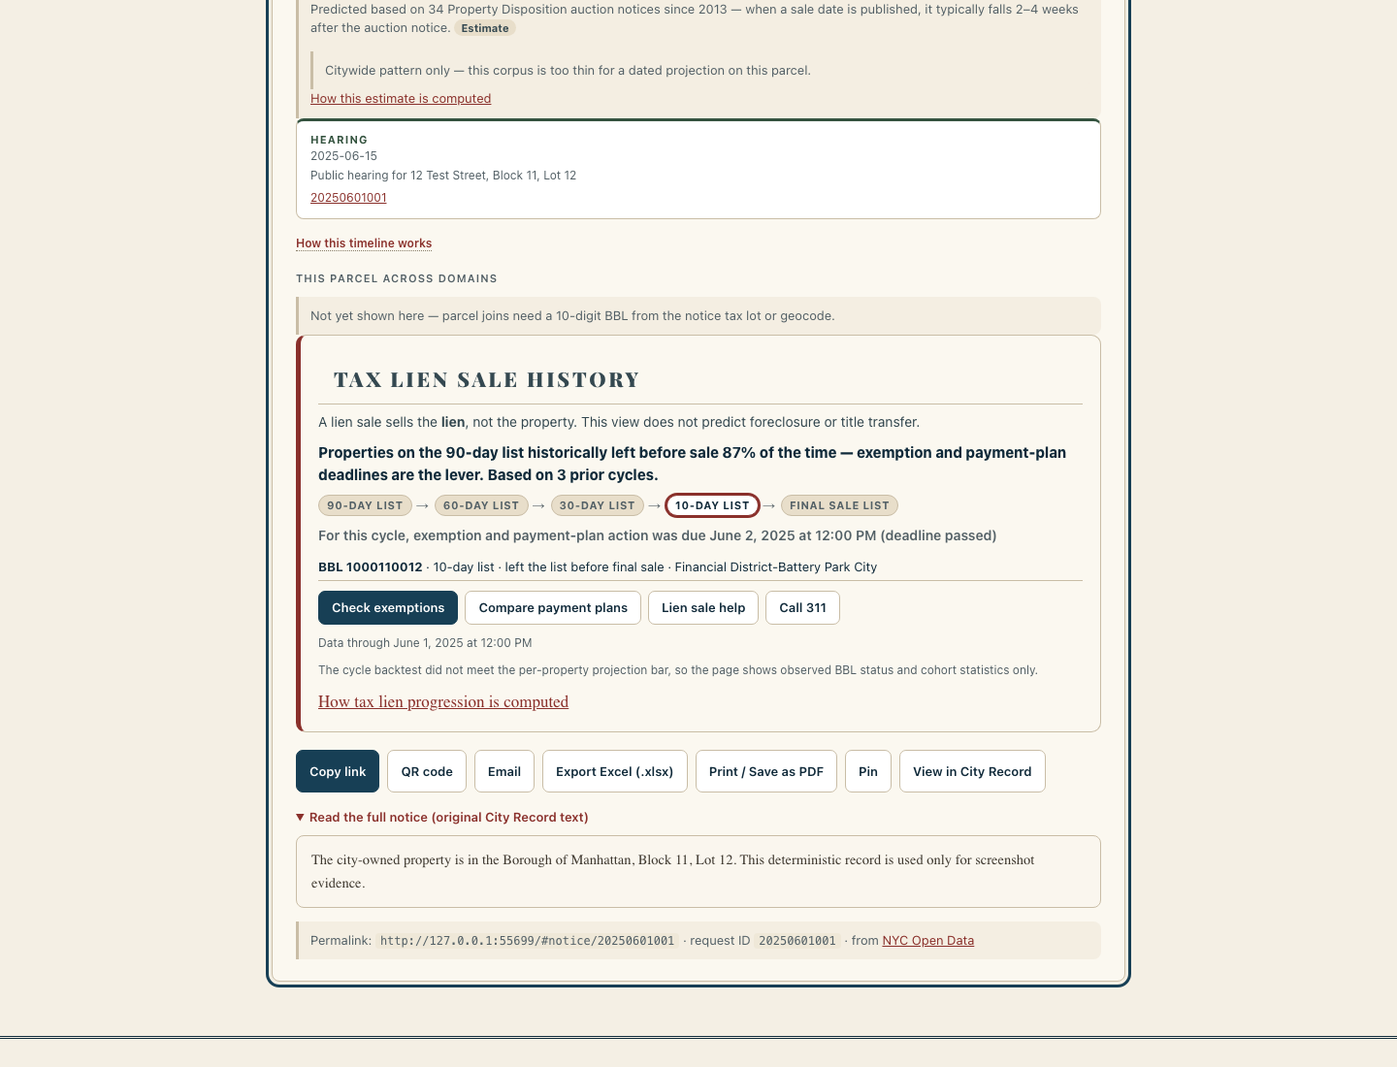
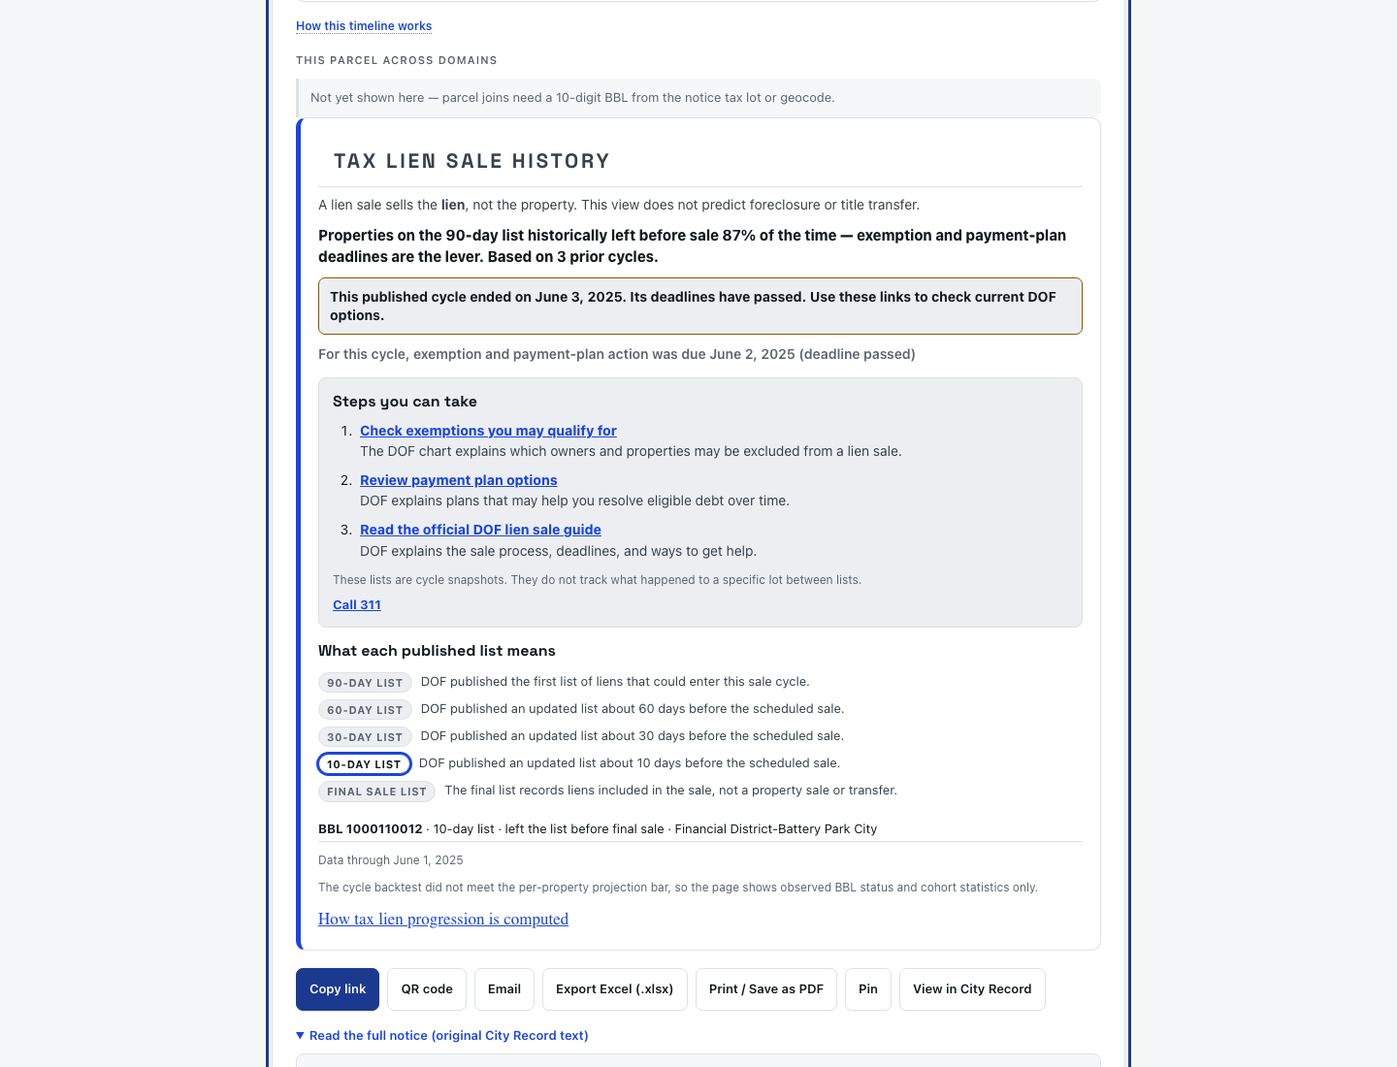
Present lien-sale cycle as a resident checklist (#472)

Changed region(s): [[0.1875, 0.0, 0.8125, 1.0]]

diff --git a/site/index.html b/site/index.html
@@ -667,9 +667,21 @@
   .tax-lien-deck,.tax-lien-lead,.tax-lien-meta{font:14px/1.5 ui-sans-serif,system-ui,sans-serif;margin:0 0 10px;color:var(--ink-soft)}
   .tax-lien-lead{font-weight:750;color:var(--ink);font-size:15px}
   .tax-lien-meta{font-size:12px;color:var(--muted)}
-  .tax-lien-actions{display:flex;flex-wrap:wrap;gap:7px;margin:10px 0}
-  .tax-lien-stepper{margin:10px 0;padding:0;display:flex;flex-wrap:wrap;gap:4px;list-style:none}
-  .tax-lien-stepper .lc-step{font-size:11px;padding:3px 8px}
+  .tax-lien-actions{margin:14px 0;padding:14px;background:var(--color-canvas-subtle);border:1px solid var(--rule);border-radius:8px}
+  .tax-lien-actions h3{font:750 16px/1.25 var(--font-display);margin:0 0 10px}
+  .tax-lien-actions ol{margin:0;padding-inline-start:24px;display:grid;gap:10px}
+  .tax-lien-actions li{padding-inline-start:4px;font:14px/1.4 ui-sans-serif,system-ui,sans-serif}
+  .tax-lien-actions li a{font-weight:750}
+  .tax-lien-actions li p{margin:2px 0 0;color:var(--ink-soft)}
+  .tax-lien-no-tracking{margin:12px 0 0;font:12px/1.45 ui-sans-serif,system-ui,sans-serif;color:var(--muted)}
+  .tax-lien-support{margin:7px 0 0;font:700 13px/1.4 ui-sans-serif,system-ui,sans-serif}
+  .tax-lien-stages{margin:14px 0}
+  .tax-lien-stages h3{font:750 16px/1.25 var(--font-display);margin:0 0 9px}
+  .tax-lien-stepper{margin:12px 0;padding:0;display:grid;gap:7px;list-style:none}
+  .tax-lien-stepper li{display:grid;grid-template-columns:minmax(92px,auto) minmax(0,1fr);gap:9px;align-items:start}
+  .tax-lien-stepper .lc-step{font-size:11px;padding:3px 8px;text-align:center}
+  .tax-lien-stage-meaning{font:13px/1.4 ui-sans-serif,system-ui,sans-serif;color:var(--ink-soft)}
+  .tax-lien-cycle-expired{margin:10px 0;padding:9px 11px;border:1px solid var(--amber);border-radius:7px;background:var(--paper-2);font:700 14px/1.4 ui-sans-serif,system-ui,sans-serif;color:var(--ink)}
   .tax-lien-lookup{display:grid;grid-template-columns:minmax(0,1fr) auto;gap:8px;align-items:end;margin:14px 0}
   .tax-lien-lookup label{grid-column:1/-1;font:700 11px/1 ui-sans-serif,system-ui,sans-serif;letter-spacing:.08em;text-transform:uppercase;color:var(--muted)}
   .tax-lien-result{grid-column:1/-1;min-width:0}

diff --git a/site/i18n/lang/fr.js b/site/i18n/lang/fr.js
@@ -1567,6 +1567,21 @@
     tax_lien_payment_plans: "Comparer les plans de paiement",
     tax_lien_help: "Aide sur les ventes de privilèges",
     tax_lien_call_311: "Appeler le 311",
+    tax_lien_checklist_heading:"Steps you can take",
+    tax_lien_stage_heading:"What each published list means",
+    tax_lien_checklist_exemptions:"Check exemptions you may qualify for",
+    tax_lien_checklist_exemptions_meaning:"The DOF chart explains which owners and properties may be excluded from a lien sale.",
+    tax_lien_checklist_payment_plans:"Review payment plan options",
+    tax_lien_checklist_payment_plans_meaning:"DOF explains plans that may help you resolve eligible debt over time.",
+    tax_lien_checklist_official_guide:"Read the official DOF lien sale guide",
+    tax_lien_checklist_official_guide_meaning:"DOF explains the sale process, deadlines, and ways to get help.",
+    tax_lien_cycle_expired_plain:"This published cycle ended on {date}. Its deadlines have passed. Use these links to check current DOF options.",
+    tax_lien_stage_90_meaning:"DOF published the first list of liens that could enter this sale cycle.",
+    tax_lien_stage_60_meaning:"DOF published an updated list about 60 days before the scheduled sale.",
+    tax_lien_stage_30_meaning:"DOF published an updated list about 30 days before the scheduled sale.",
+    tax_lien_stage_10_meaning:"DOF published an updated list about 10 days before the scheduled sale.",
+    tax_lien_stage_sold_meaning:"The final list records liens included in the sale, not a property sale or transfer.",
+    tax_lien_no_lot_tracking:"These lists are cycle snapshots. They do not track what happened to a specific lot between lists.",
     tax_lien_card_html: "Historique de la liste des privilèges jusqu'au {date} : {stage} · {outcome}.",
     tax_lien_formula_link: "Comment la progression des privilèges fiscaux est calculée",
     tax_lien_archive_note_html: "Référence d'archive — le contexte de cycle et les actions apparaissent sur les avis pour les parcelles figurant sur une liste publiée. Cette page n'est pas liée depuis la liste des biens.",

diff --git a/site/i18n/lang/es.js b/site/i18n/lang/es.js
@@ -1486,6 +1486,21 @@
     tax_lien_payment_plans: "Comparar planes de pago",
     tax_lien_help: "Ayuda sobre venta de gravámenes",
     tax_lien_call_311: "Llamar al 311",
+    tax_lien_checklist_heading:"Steps you can take",
+    tax_lien_stage_heading:"What each published list means",
+    tax_lien_checklist_exemptions:"Check exemptions you may qualify for",
+    tax_lien_checklist_exemptions_meaning:"The DOF chart explains which owners and properties may be excluded from a lien sale.",
+    tax_lien_checklist_payment_plans:"Review payment plan options",
+    tax_lien_checklist_payment_plans_meaning:"DOF explains plans that may help you resolve eligible debt over time.",
+    tax_lien_checklist_official_guide:"Read the official DOF lien sale guide",
+    tax_lien_checklist_official_guide_meaning:"DOF explains the sale process, deadlines, and ways to get help.",
+    tax_lien_cycle_expired_plain:"This published cycle ended on {date}. Its deadlines have passed. Use these links to check current DOF options.",
+    tax_lien_stage_90_meaning:"DOF published the first list of liens that could enter this sale cycle.",
+    tax_lien_stage_60_meaning:"DOF published an updated list about 60 days before the scheduled sale.",
+    tax_lien_stage_30_meaning:"DOF published an updated list about 30 days before the scheduled sale.",
+    tax_lien_stage_10_meaning:"DOF published an updated list about 10 days before the scheduled sale.",
+    tax_lien_stage_sold_meaning:"The final list records liens included in the sale, not a property sale or transfer.",
+    tax_lien_no_lot_tracking:"These lists are cycle snapshots. They do not track what happened to a specific lot between lists.",
     tax_lien_card_html: "Historial de la lista de gravámenes hasta {date}: {stage} · {outcome}.",
     tax_lien_formula_link: "Cómo se calcula la progresión de gravámenes fiscales",
     tax_lien_archive_note_html: "Referencia de archivo: el contexto del ciclo y las acciones aparecen en los avisos de parcelas en una lista publicada. Esta página no está enlazada desde la lista de propiedades.",

diff --git a/site/i18n/lang/ar.js b/site/i18n/lang/ar.js
@@ -1492,6 +1492,21 @@
     tax_lien_payment_plans:"Compare payment plans",
     tax_lien_help:"Lien sale help",
     tax_lien_call_311:"Call 311",
+    tax_lien_checklist_heading:"Steps you can take",
+    tax_lien_stage_heading:"What each published list means",
+    tax_lien_checklist_exemptions:"Check exemptions you may qualify for",
+    tax_lien_checklist_exemptions_meaning:"The DOF chart explains which owners and properties may be excluded from a lien sale.",
+    tax_lien_checklist_payment_plans:"Review payment plan options",
+    tax_lien_checklist_payment_plans_meaning:"DOF explains plans that may help you resolve eligible debt over time.",
+    tax_lien_checklist_official_guide:"Read the official DOF lien sale guide",
+    tax_lien_checklist_official_guide_meaning:"DOF explains the sale process, deadlines, and ways to get help.",
+    tax_lien_cycle_expired_plain:"This published cycle ended on {date}. Its deadlines have passed. Use these links to check current DOF options.",
+    tax_lien_stage_90_meaning:"DOF published the first list of liens that could enter this sale cycle.",
+    tax_lien_stage_60_meaning:"DOF published an updated list about 60 days before the scheduled sale.",
+    tax_lien_stage_30_meaning:"DOF published an updated list about 30 days before the scheduled sale.",
+    tax_lien_stage_10_meaning:"DOF published an updated list about 10 days before the scheduled sale.",
+    tax_lien_stage_sold_meaning:"The final list records liens included in the sale, not a property sale or transfer.",
+    tax_lien_no_lot_tracking:"These lists are cycle snapshots. They do not track what happened to a specific lot between lists.",
     tax_lien_card_html:"Tax-lien list history through {date}: {stage} · {outcome}.",
     tax_lien_formula_link:"How tax lien progression is computed",
     tax_lien_archive_note_html:"Archive reference — cycle context and actions appear on notices for parcels on a published list. This page is not linked from the property list.",

diff --git a/site/i18n/lang/bn.js b/site/i18n/lang/bn.js
@@ -1485,6 +1485,21 @@
     tax_lien_payment_plans:"Compare payment plans",
     tax_lien_help:"Lien sale help",
     tax_lien_call_311:"Call 311",
+    tax_lien_checklist_heading:"Steps you can take",
+    tax_lien_stage_heading:"What each published list means",
+    tax_lien_checklist_exemptions:"Check exemptions you may qualify for",
+    tax_lien_checklist_exemptions_meaning:"The DOF chart explains which owners and properties may be excluded from a lien sale.",
+    tax_lien_checklist_payment_plans:"Review payment plan options",
+    tax_lien_checklist_payment_plans_meaning:"DOF explains plans that may help you resolve eligible debt over time.",
+    tax_lien_checklist_official_guide:"Read the official DOF lien sale guide",
+    tax_lien_checklist_official_guide_meaning:"DOF explains the sale process, deadlines, and ways to get help.",
+    tax_lien_cycle_expired_plain:"This published cycle ended on {date}. Its deadlines have passed. Use these links to check current DOF options.",
+    tax_lien_stage_90_meaning:"DOF published the first list of liens that could enter this sale cycle.",
+    tax_lien_stage_60_meaning:"DOF published an updated list about 60 days before the scheduled sale.",
+    tax_lien_stage_30_meaning:"DOF published an updated list about 30 days before the scheduled sale.",
+    tax_lien_stage_10_meaning:"DOF published an updated list about 10 days before the scheduled sale.",
+    tax_lien_stage_sold_meaning:"The final list records liens included in the sale, not a property sale or transfer.",
+    tax_lien_no_lot_tracking:"These lists are cycle snapshots. They do not track what happened to a specific lot between lists.",
     tax_lien_card_html:"Tax-lien list history through {date}: {stage} · {outcome}.",
     tax_lien_formula_link:"How tax lien progression is computed",
     tax_lien_archive_note_html:"Archive reference — cycle context and actions appear on notices for parcels on a published list. This page is not linked from the property list.",

diff --git a/site/i18n/lang/ht.js b/site/i18n/lang/ht.js
@@ -1484,6 +1484,21 @@
     tax_lien_payment_plans:"Compare payment plans",
     tax_lien_help:"Lien sale help",
     tax_lien_call_311:"Call 311",
+    tax_lien_checklist_heading:"Steps you can take",
+    tax_lien_stage_heading:"What each published list means",
+    tax_lien_checklist_exemptions:"Check exemptions you may qualify for",
+    tax_lien_checklist_exemptions_meaning:"The DOF chart explains which owners and properties may be excluded from a lien sale.",
+    tax_lien_checklist_payment_plans:"Review payment plan options",
+    tax_lien_checklist_payment_plans_meaning:"DOF explains plans that may help you resolve eligible debt over time.",
+    tax_lien_checklist_official_guide:"Read the official DOF lien sale guide",
+    tax_lien_checklist_official_guide_meaning:"DOF explains the sale process, deadlines, and ways to get help.",
+    tax_lien_cycle_expired_plain:"This published cycle ended on {date}. Its deadlines have passed. Use these links to check current DOF options.",
+    tax_lien_stage_90_meaning:"DOF published the first list of liens that could enter this sale cycle.",
+    tax_lien_stage_60_meaning:"DOF published an updated list about 60 days before the scheduled sale.",
+    tax_lien_stage_30_meaning:"DOF published an updated list about 30 days before the scheduled sale.",
+    tax_lien_stage_10_meaning:"DOF published an updated list about 10 days before the scheduled sale.",
+    tax_lien_stage_sold_meaning:"The final list records liens included in the sale, not a property sale or transfer.",
+    tax_lien_no_lot_tracking:"These lists are cycle snapshots. They do not track what happened to a specific lot between lists.",
     tax_lien_card_html:"Tax-lien list history through {date}: {stage} · {outcome}.",
     tax_lien_formula_link:"How tax lien progression is computed",
     tax_lien_archive_note_html:"Archive reference — cycle context and actions appear on notices for parcels on a published list. This page is not linked from the property list.",

diff --git a/site/i18n/lang/ko.js b/site/i18n/lang/ko.js
@@ -1485,6 +1485,21 @@
     tax_lien_payment_plans:"Compare payment plans",
     tax_lien_help:"Lien sale help",
     tax_lien_call_311:"Call 311",
+    tax_lien_checklist_heading:"Steps you can take",
+    tax_lien_stage_heading:"What each published list means",
+    tax_lien_checklist_exemptions:"Check exemptions you may qualify for",
+    tax_lien_checklist_exemptions_meaning:"The DOF chart explains which owners and properties may be excluded from a lien sale.",
+    tax_lien_checklist_payment_plans:"Review payment plan options",
+    tax_lien_checklist_payment_plans_meaning:"DOF explains plans that may help you resolve eligible debt over time.",
+    tax_lien_checklist_official_guide:"Read the official DOF lien sale guide",
+    tax_lien_checklist_official_guide_meaning:"DOF explains the sale process, deadlines, and ways to get help.",
+    tax_lien_cycle_expired_plain:"This published cycle ended on {date}. Its deadlines have passed. Use these links to check current DOF options.",
+    tax_lien_stage_90_meaning:"DOF published the first list of liens that could enter this sale cycle.",
+    tax_lien_stage_60_meaning:"DOF published an updated list about 60 days before the scheduled sale.",
+    tax_lien_stage_30_meaning:"DOF published an updated list about 30 days before the scheduled sale.",
+    tax_lien_stage_10_meaning:"DOF published an updated list about 10 days before the scheduled sale.",
+    tax_lien_stage_sold_meaning:"The final list records liens included in the sale, not a property sale or transfer.",
+    tax_lien_no_lot_tracking:"These lists are cycle snapshots. They do not track what happened to a specific lot between lists.",
     tax_lien_card_html:"Tax-lien list history through {date}: {stage} · {outcome}.",
     tax_lien_formula_link:"How tax lien progression is computed",
     tax_lien_archive_note_html:"Archive reference — cycle context and actions appear on notices for parcels on a published list. This page is not linked from the property list.",

diff --git a/site/i18n/lang/pl.js b/site/i18n/lang/pl.js
@@ -1503,6 +1503,21 @@
     tax_lien_payment_plans:"Compare payment plans",
     tax_lien_help:"Lien sale help",
     tax_lien_call_311:"Call 311",
+    tax_lien_checklist_heading:"Steps you can take",
+    tax_lien_stage_heading:"What each published list means",
+    tax_lien_checklist_exemptions:"Check exemptions you may qualify for",
+    tax_lien_checklist_exemptions_meaning:"The DOF chart explains which owners and properties may be excluded from a lien sale.",
+    tax_lien_checklist_payment_plans:"Review payment plan options",
+    tax_lien_checklist_payment_plans_meaning:"DOF explains plans that may help you resolve eligible debt over time.",
+    tax_lien_checklist_official_guide:"Read the official DOF lien sale guide",
+    tax_lien_checklist_official_guide_meaning:"DOF explains the sale process, deadlines, and ways to get help.",
+    tax_lien_cycle_expired_plain:"This published cycle ended on {date}. Its deadlines have passed. Use these links to check current DOF options.",
+    tax_lien_stage_90_meaning:"DOF published the first list of liens that could enter this sale cycle.",
+    tax_lien_stage_60_meaning:"DOF published an updated list about 60 days before the scheduled sale.",
+    tax_lien_stage_30_meaning:"DOF published an updated list about 30 days before the scheduled sale.",
+    tax_lien_stage_10_meaning:"DOF published an updated list about 10 days before the scheduled sale.",
+    tax_lien_stage_sold_meaning:"The final list records liens included in the sale, not a property sale or transfer.",
+    tax_lien_no_lot_tracking:"These lists are cycle snapshots. They do not track what happened to a specific lot between lists.",
     tax_lien_card_html:"Tax-lien list history through {date}: {stage} · {outcome}.",
     tax_lien_formula_link:"How tax lien progression is computed",
     tax_lien_archive_note_html:"Archive reference — cycle context and actions appear on notices for parcels on a published list. This page is not linked from the property list.",

diff --git a/site/i18n/lang/ru.js b/site/i18n/lang/ru.js
@@ -1495,6 +1495,21 @@
     tax_lien_payment_plans:"Compare payment plans",
     tax_lien_help:"Lien sale help",
     tax_lien_call_311:"Call 311",
+    tax_lien_checklist_heading:"Steps you can take",
+    tax_lien_stage_heading:"What each published list means",
+    tax_lien_checklist_exemptions:"Check exemptions you may qualify for",
+    tax_lien_checklist_exemptions_meaning:"The DOF chart explains which owners and properties may be excluded from a lien sale.",
+    tax_lien_checklist_payment_plans:"Review payment plan options",
+    tax_lien_checklist_payment_plans_meaning:"DOF explains plans that may help you resolve eligible debt over time.",
+    tax_lien_checklist_official_guide:"Read the official DOF lien sale guide",
+    tax_lien_checklist_official_guide_meaning:"DOF explains the sale process, deadlines, and ways to get help.",
+    tax_lien_cycle_expired_plain:"This published cycle ended on {date}. Its deadlines have passed. Use these links to check current DOF options.",
+    tax_lien_stage_90_meaning:"DOF published the first list of liens that could enter this sale cycle.",
+    tax_lien_stage_60_meaning:"DOF published an updated list about 60 days before the scheduled sale.",
+    tax_lien_stage_30_meaning:"DOF published an updated list about 30 days before the scheduled sale.",
+    tax_lien_stage_10_meaning:"DOF published an updated list about 10 days before the scheduled sale.",
+    tax_lien_stage_sold_meaning:"The final list records liens included in the sale, not a property sale or transfer.",
+    tax_lien_no_lot_tracking:"These lists are cycle snapshots. They do not track what happened to a specific lot between lists.",
     tax_lien_card_html:"Tax-lien list history through {date}: {stage} · {outcome}.",
     tax_lien_formula_link:"How tax lien progression is computed",
     tax_lien_archive_note_html:"Archive reference — cycle context and actions appear on notices for parcels on a published list. This page is not linked from the property list.",

diff --git a/site/i18n/lang/ur.js b/site/i18n/lang/ur.js
@@ -1492,6 +1492,21 @@
     tax_lien_payment_plans:"Compare payment plans",
     tax_lien_help:"Lien sale help",
     tax_lien_call_311:"Call 311",
+    tax_lien_checklist_heading:"Steps you can take",
+    tax_lien_stage_heading:"What each published list means",
+    tax_lien_checklist_exemptions:"Check exemptions you may qualify for",
+    tax_lien_checklist_exemptions_meaning:"The DOF chart explains which owners and properties may be excluded from a lien sale.",
+    tax_lien_checklist_payment_plans:"Review payment plan options",
+    tax_lien_checklist_payment_plans_meaning:"DOF explains plans that may help you resolve eligible debt over time.",
+    tax_lien_checklist_official_guide:"Read the official DOF lien sale guide",
+    tax_lien_checklist_official_guide_meaning:"DOF explains the sale process, deadlines, and ways to get help.",
+    tax_lien_cycle_expired_plain:"This published cycle ended on {date}. Its deadlines have passed. Use these links to check current DOF options.",
+    tax_lien_stage_90_meaning:"DOF published the first list of liens that could enter this sale cycle.",
+    tax_lien_stage_60_meaning:"DOF published an updated list about 60 days before the scheduled sale.",
+    tax_lien_stage_30_meaning:"DOF published an updated list about 30 days before the scheduled sale.",
+    tax_lien_stage_10_meaning:"DOF published an updated list about 10 days before the scheduled sale.",
+    tax_lien_stage_sold_meaning:"The final list records liens included in the sale, not a property sale or transfer.",
+    tax_lien_no_lot_tracking:"These lists are cycle snapshots. They do not track what happened to a specific lot between lists.",
     tax_lien_card_html:"Tax-lien list history through {date}: {stage} · {outcome}.",
     tax_lien_formula_link:"How tax lien progression is computed",
     tax_lien_archive_note_html:"Archive reference — cycle context and actions appear on notices for parcels on a published list. This page is not linked from the property list.",

diff --git a/site/i18n/lang/zh-Hans.js b/site/i18n/lang/zh-Hans.js
@@ -1485,6 +1485,21 @@
     tax_lien_payment_plans:"Compare payment plans",
     tax_lien_help:"Lien sale help",
     tax_lien_call_311:"Call 311",
+    tax_lien_checklist_heading:"Steps you can take",
+    tax_lien_stage_heading:"What each published list means",
+    tax_lien_checklist_exemptions:"Check exemptions you may qualify for",
+    tax_lien_checklist_exemptions_meaning:"The DOF chart explains which owners and properties may be excluded from a lien sale.",
+    tax_lien_checklist_payment_plans:"Review payment plan options",
+    tax_lien_checklist_payment_plans_meaning:"DOF explains plans that may help you resolve eligible debt over time.",
+    tax_lien_checklist_official_guide:"Read the official DOF lien sale guide",
+    tax_lien_checklist_official_guide_meaning:"DOF explains the sale process, deadlines, and ways to get help.",
+    tax_lien_cycle_expired_plain:"This published cycle ended on {date}. Its deadlines have passed. Use these links to check current DOF options.",
+    tax_lien_stage_90_meaning:"DOF published the first list of liens that could enter this sale cycle.",
+    tax_lien_stage_60_meaning:"DOF published an updated list about 60 days before the scheduled sale.",
+    tax_lien_stage_30_meaning:"DOF published an updated list about 30 days before the scheduled sale.",
+    tax_lien_stage_10_meaning:"DOF published an updated list about 10 days before the scheduled sale.",
+    tax_lien_stage_sold_meaning:"The final list records liens included in the sale, not a property sale or transfer.",
+    tax_lien_no_lot_tracking:"These lists are cycle snapshots. They do not track what happened to a specific lot between lists.",
     tax_lien_card_html:"Tax-lien list history through {date}: {stage} · {outcome}.",
     tax_lien_formula_link:"How tax lien progression is computed",
     tax_lien_archive_note_html:"Archive reference — cycle context and actions appear on notices for parcels on a published list. This page is not linked from the property list.",

diff --git a/site/i18n.js b/site/i18n.js
@@ -1944,6 +1944,21 @@ const STRINGS = {
     tax_lien_payment_plans: "Compare payment plans",
     tax_lien_help: "Lien sale help",
     tax_lien_call_311: "Call 311",
+    tax_lien_checklist_heading: "Steps you can take",
+    tax_lien_stage_heading: "What each published list means",
+    tax_lien_checklist_exemptions: "Check exemptions you may qualify for",
+    tax_lien_checklist_exemptions_meaning: "The DOF chart explains which owners and properties may be excluded from a lien sale.",
+    tax_lien_checklist_payment_plans: "Review payment plan options",
+    tax_lien_checklist_payment_plans_meaning: "DOF explains plans that may help you resolve eligible debt over time.",
+    tax_lien_checklist_official_guide: "Read the official DOF lien sale guide",
+    tax_lien_checklist_official_guide_meaning: "DOF explains the sale process, deadlines, and ways to get help.",
+    tax_lien_cycle_expired_plain: "This published cycle ended on {date}. Its deadlines have passed. Use these links to check current DOF options.",
+    tax_lien_stage_90_meaning: "DOF published the first list of liens that could enter this sale cycle.",
+    tax_lien_stage_60_meaning: "DOF published an updated list about 60 days before the scheduled sale.",
+    tax_lien_stage_30_meaning: "DOF published an updated list about 30 days before the scheduled sale.",
+    tax_lien_stage_10_meaning: "DOF published an updated list about 10 days before the scheduled sale.",
+    tax_lien_stage_sold_meaning: "The final list records liens included in the sale, not a property sale or transfer.",
+    tax_lien_no_lot_tracking: "These lists are cycle snapshots. They do not track what happened to a specific lot between lists.",
     tax_lien_card_html: "Tax-lien list history through {date}: {stage} · {outcome}.",
     tax_lien_notice_context_heading: "Tax lien cycle context",
     property_process_rail_label: "Disposition stage",
